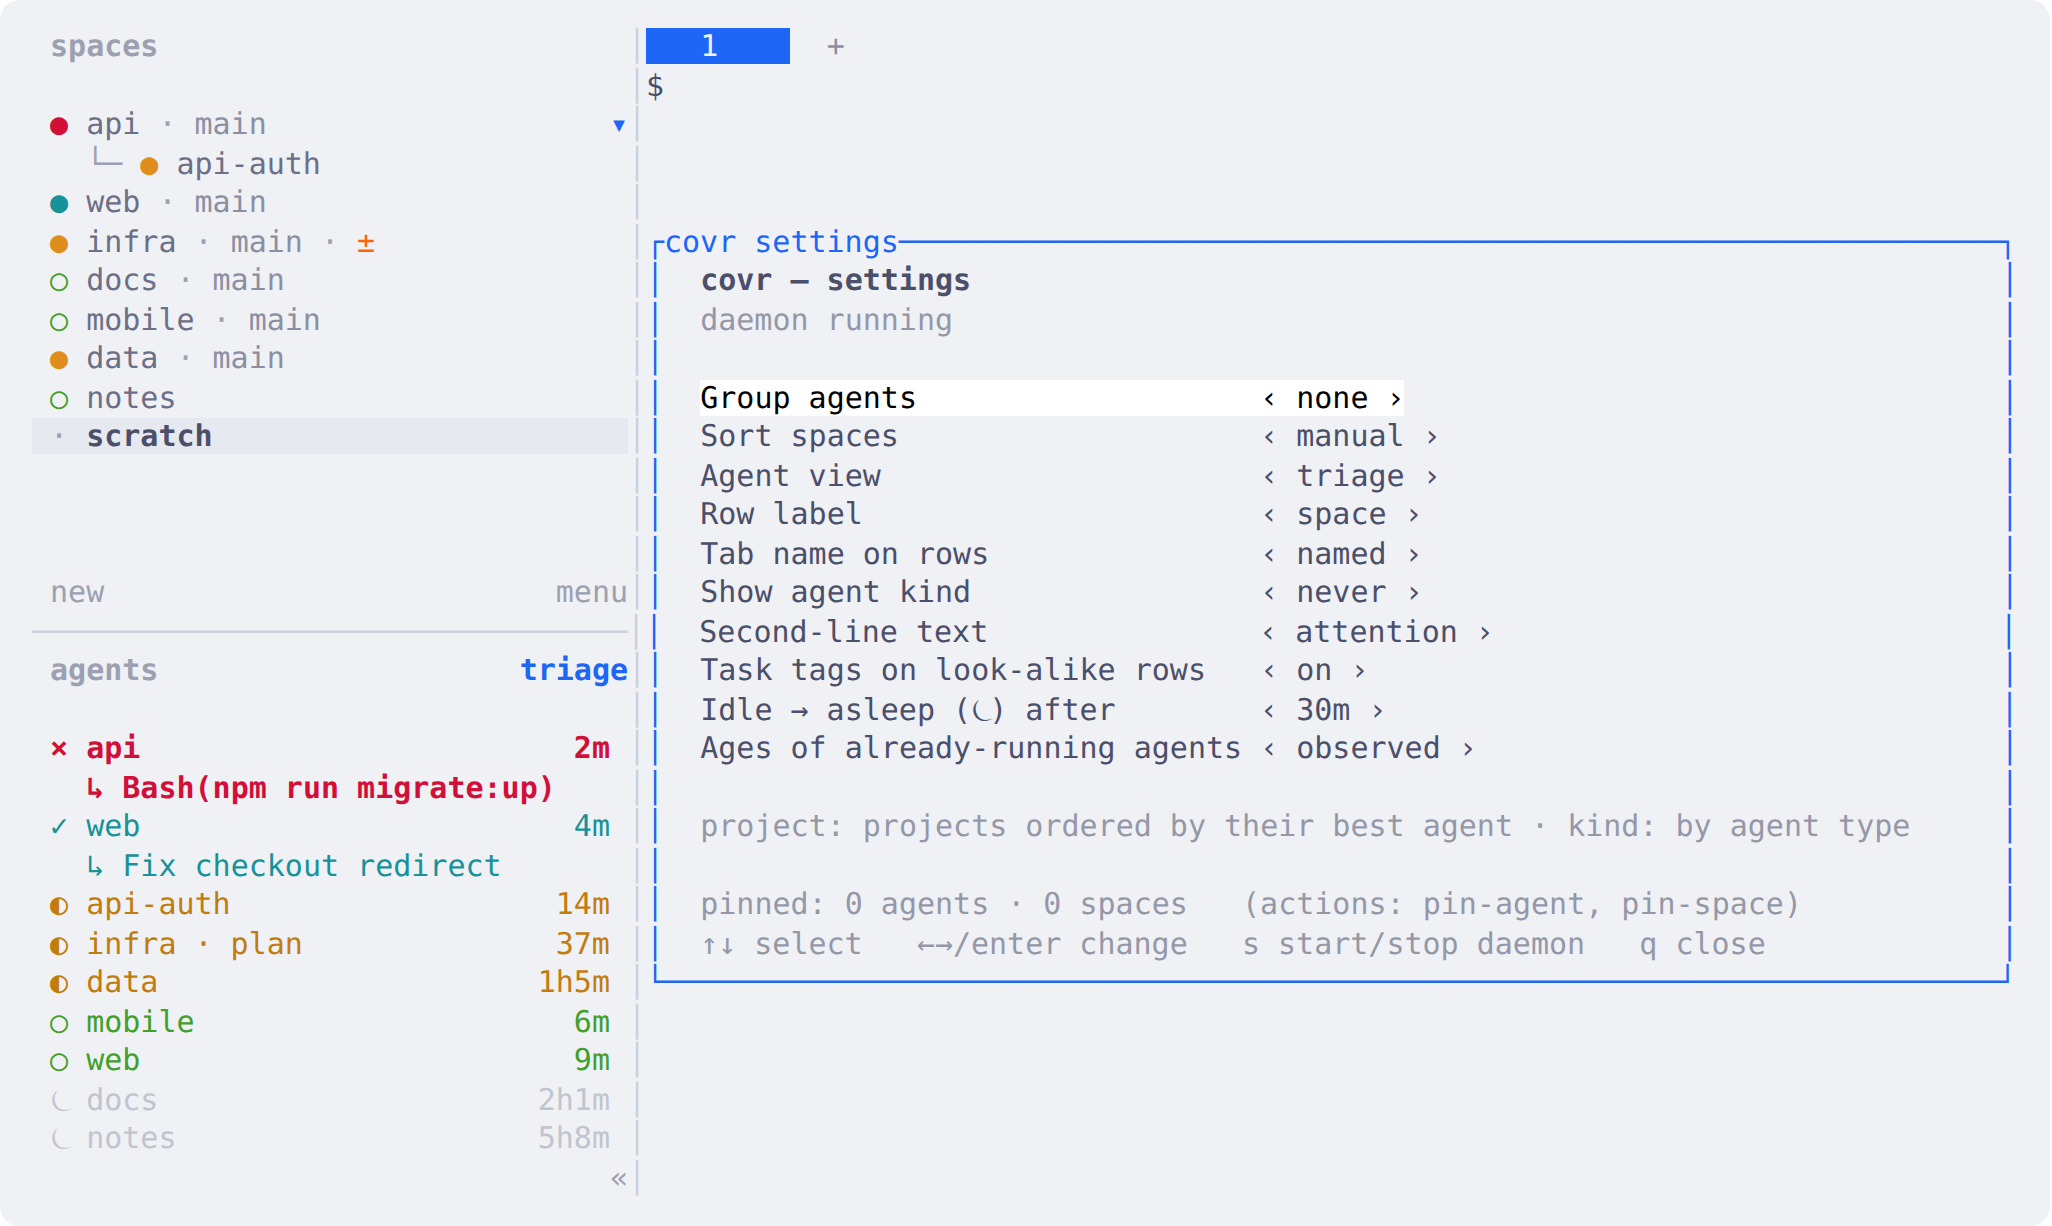
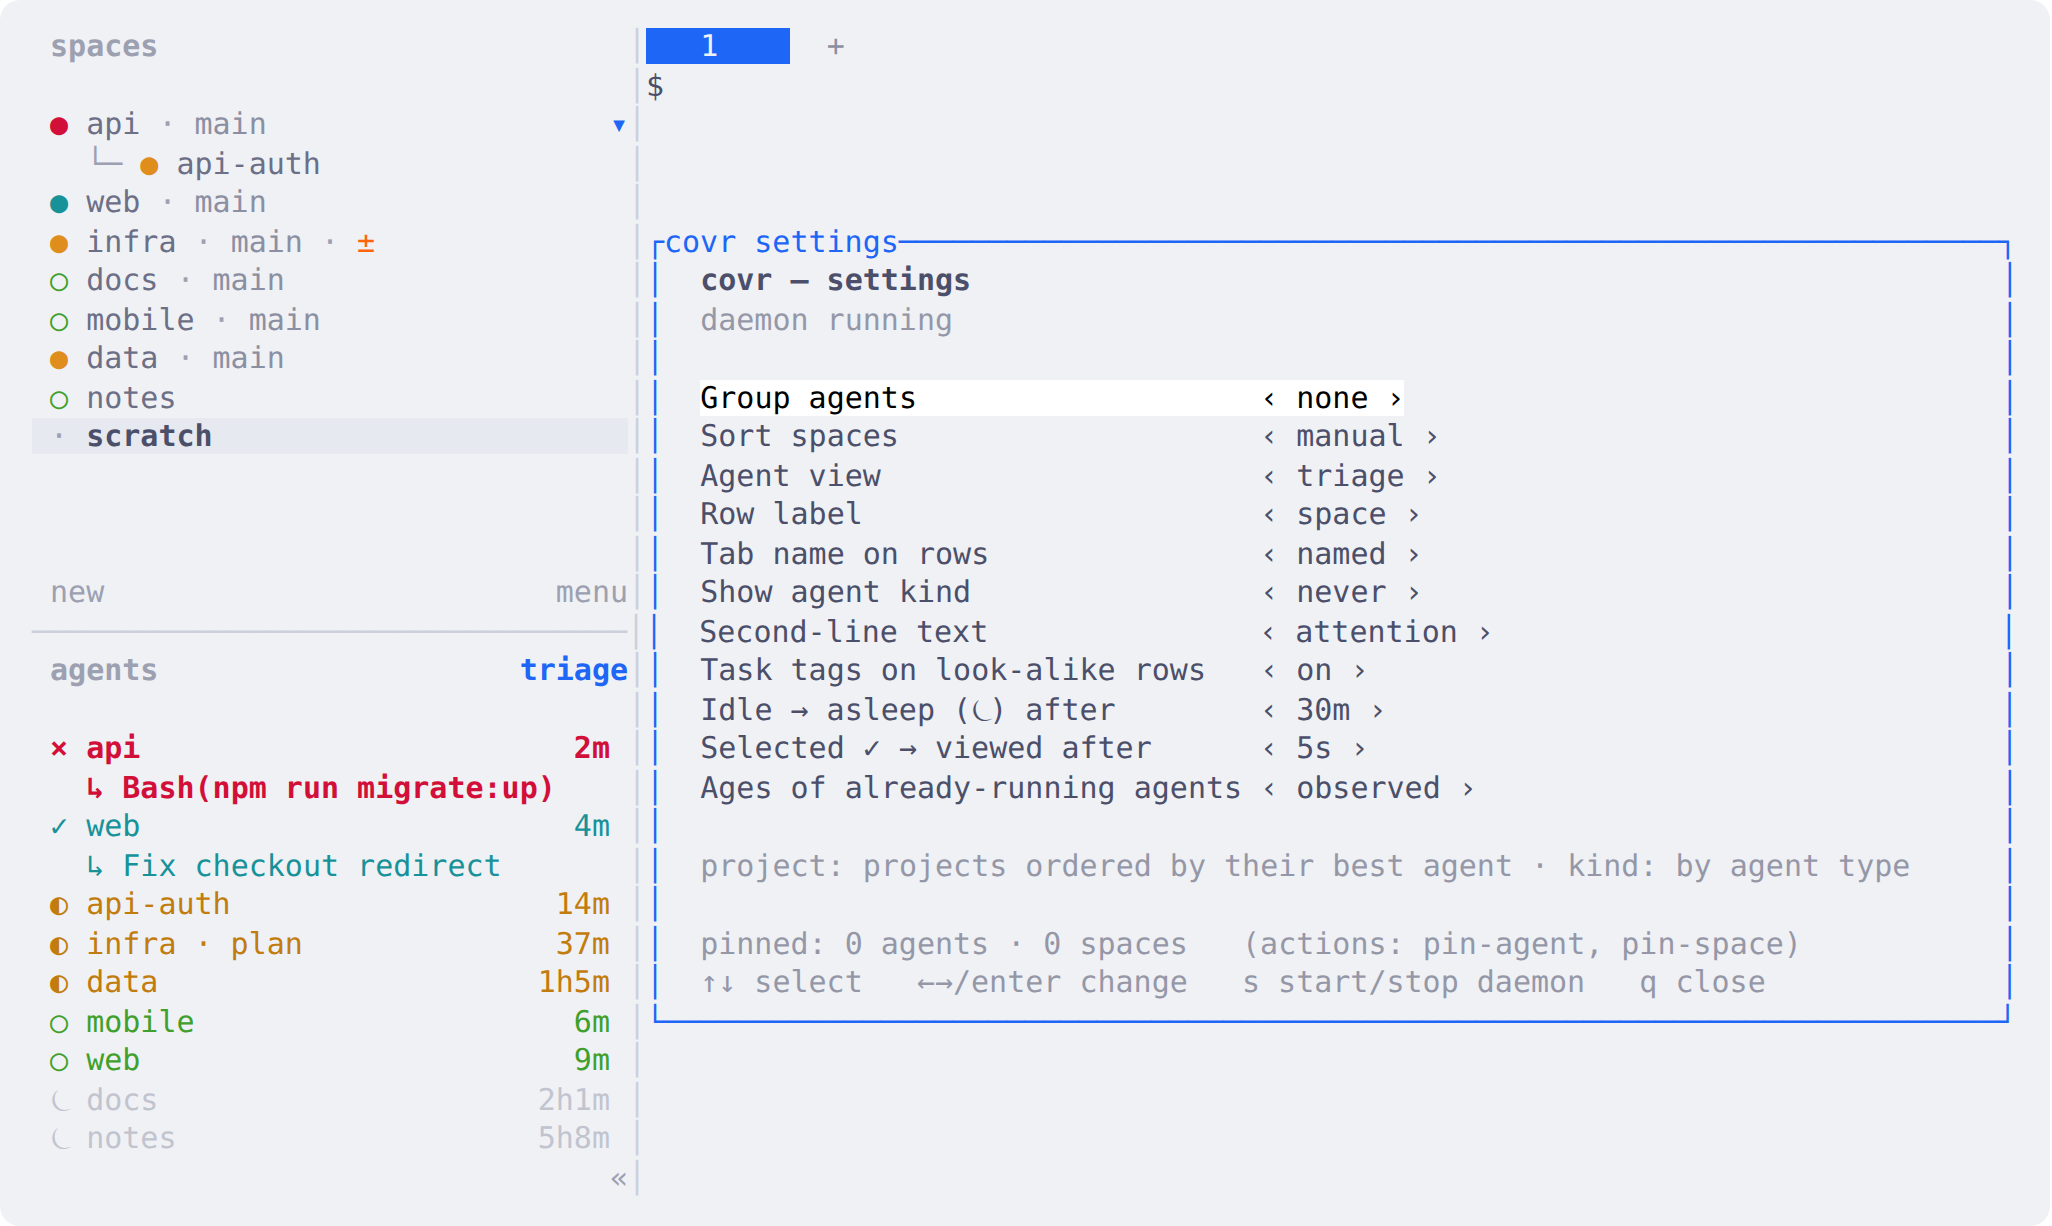
0.4.1: selected finished agents become viewed; idle counts from the view
- seen_after (default 5s, `off` to disable): herdr's server marks a
  finished agent viewed only on an explicit focus, so one that finishes
  while it is already the selected pane (terminal in the background) could
  stay ✓ until you clicked away and back. covr now focuses it where it is
  after seen_after, which marks it viewed and moves nothing. The daemon
  wakes at the due time instead of waiting for its next tick.
- The timer restarts when a finished agent is viewed, however that
  happened. herdr doesn't count done -> idle as a state change, so the
  idle age and the stale_after countdown used to run from the finish; they
  now run from the view.
- Settings popup: the new option (one more row).
- Tests: 6 unit tests and a `viewed` e2e scenario that reproduces the
  stuck ✓ on herdr 0.9.1; the popup test polls instead of sleeping.

Changed region(s): [[0.3119, 0.5889, 0.9357, 0.8369]]

diff --git a/bin/covrd.py b/bin/covrd.py
@@ -62,7 +62,7 @@ MIN_GAP = 0.5         # seconds between recomputes when hooks fire in bursts (pa
 FIGHT_MOVES, FIGHT_WINDOW, FIGHT_PAUSE = 3, 60, 300  # re-applying one order 3x in 60 s pauses space sorting 5 min
 ZW = ""
 
-DEFAULTS = {"layout": "auto", "age_source": "observed", "label": "space", "show_kind": "never", "group_by": "none", "show_task": "attention",
+DEFAULTS = {"layout": "auto", "age_source": "observed", "seen_after": "5s", "label": "space", "show_kind": "never", "group_by": "none", "show_task": "attention",
             "disambiguate": True, "stale_after": "30m", "view": "triage", "space_sort": "manual", "show_tab": "named", "tick_seconds": 5}
 CYCLES = {"view": ["triage", "needs me", "here+"], "group_by": ["none", "project", "kind"],
           "show_kind": ["never", "auto", "always"], "label": ["space", "task"],
@@ -249,6 +249,11 @@ def validate(key, value):
         if v in ("0", "false", "no", "off"):
             return False, None
         return None, f"{key} must be true or false"
+    if key == "seen_after":
+        v = str(value).strip().lower()
+        if v == "off" or (DURATION.fullmatch(v) and 1 <= seconds(v) <= 3600):
+            return v, None
+        return None, "seen_after must be off or a duration between 1s and 1h, like 5s or 1m"
     if key == "stale_after":
         m = DURATION.fullmatch(str(value).strip())
         if not m or not 60 <= seconds(value) <= 30 * 86400:
@@ -516,6 +521,26 @@ def transcript_mtime(cwd, title, cache):
     return best
 
 
+def mark_seen(pane_id, opt, memo, now):
+    """A finished agent stays "done" until herdr's server sees an explicit focus on it. When it is already
+    the selected pane (e.g. it finished while the terminal window was in the background), nothing ever
+    focuses it again, so the ✓ would stay. After `seen_after` we focus it where it is, which marks it viewed
+    and moves nothing. Returns True once it has been marked."""
+    if str(opt["seen_after"]).lower() == "off":
+        return False
+    due = memo.setdefault("seen_due", {}).setdefault(pane_id, now + seconds(opt["seen_after"]))
+    if now < due:
+        return False
+    try:
+        call("agent.focus", {"target": pane_id})
+    except Exception as e:
+        log("mark seen failed", pane_id, repr(e))
+        memo["seen_due"][pane_id] = now + max(5, seconds(opt["seen_after"]))  # try again later, never spin
+        return False
+    memo["seen_due"].pop(pane_id, None)
+    return True
+
+
 def wait_reason(pane_id):
     try:
         txt = call("pane.read", {"pane_id": pane_id, "source": "visible", "lines": 40}).get("read", {}).get("text", "")
@@ -556,6 +581,8 @@ def compute(opt, memo):
         pid = a["pane_id"]
         st = a["agent_status"] if a["agent_status"] in PRIO else "unknown"
         seq = a.get("state_change_seq", 0)
+        if st == "done" and a.get("focused") and mark_seen(pid, opt, memo, now):
+            st = "idle"  # the agent you have selected has been finished long enough: it counts as viewed
         rec = seen.get(pid)
         if not rec or rec["seq"] != seq:
             first = rec is None
@@ -564,7 +591,12 @@ def compute(opt, memo):
                 start = None
                 if opt["age_source"] == "claude-transcripts":  # ... unless the user lets us look it up (opt-in)
                     start = transcript_mtime(a.get("cwd"), a.get("terminal_title_stripped"), tcache) or None
-            rec = seen[pid] = {"seq": seq, "since": start}
+            rec = seen[pid] = {"seq": seq, "since": start, "st": st}
+        elif rec.get("st") not in (None, st):
+            # the visible state changed without herdr counting a state change: a finished agent was viewed
+            # (done -> idle). The timer restarts, so "idle" and "asleep" count from when you viewed it.
+            rec["since"] = now
+        rec["st"] = st
         age = None if rec["since"] is None else max(0, int(now - rec["since"]))
         stale = st == "idle" and age is not None and age >= stale_after
         ws = spaces.get(a["workspace_id"], {})
@@ -575,6 +607,11 @@ def compute(opt, memo):
     for pid in list(seen):
         if pid not in {r["pid"] for r in rows}:
             seen.pop(pid)
+    pending = memo.setdefault("seen_due", {})
+    for pid in list(pending):  # only agents that are still finished and still selected stay due
+        if str(opt["seen_after"]).lower() == "off" or not any(a["pane_id"] == pid and a.get("agent_status") == "done" and a.get("focused") for a in agents):
+            pending.pop(pid)
+    memo["wake_at"] = min(pending.values()) if pending else None
     live_keys = {tkey(a.get("cwd"), a.get("terminal_title_stripped")) for a in agents}
     for k in list(tcache):
         if k not in live_keys:
@@ -1036,6 +1073,8 @@ def run():
                         return
                 if woke["flag"] and time.time() - last_tick >= MIN_GAP:
                     break  # a hook woke us; bursts (focus changes) coalesce into one recompute
+                if memo.get("wake_at") and time.time() >= memo["wake_at"]:
+                    break  # a selected, finished agent is due to be marked viewed
                 time.sleep(0.1)
             woke["flag"] = False
     finally:

diff --git a/tests/unit/test_covrd.py b/tests/unit/test_covrd.py
@@ -228,6 +228,101 @@ class Ordering(Base):
         self.assertNotIn("pin", out["p2"])
 
 
+class Viewed(Base):
+    """A finished agent (✓) becoming viewed (○): the timer restarts, and the selected one is viewed automatically."""
+
+    def setUp(self):
+        super().setUp()
+        self.clock = FakeClock()
+        self._time, covrd.time = covrd.time, self.clock
+
+    def tearDown(self):
+        covrd.time = self._time
+        super().tearDown()
+
+    def herdr(self, focused):
+        a = agent("p1", "w1", "working", seq=4)
+        a["focused"] = focused
+        return FakeHerdr([a], [space("w1", "api", 1)])
+
+    def finish(self, h, memo, opt=None):
+        self.run_compute(h, opt=opt, memo=memo)                  # seen while working
+        h.agents[0].update(agent_status="done", state_change_seq=5)
+        return self.run_compute(h, opt=opt, memo=memo)[0]
+
+    def test_timer_restarts_when_a_finished_agent_is_viewed(self):
+        h, memo = self.herdr(focused=False), {}
+        self.assertTrue(self.finish(h, memo)["p1"]["head"].startswith("✓ api"))
+        self.clock.now += 600                                     # ten minutes later you look at it:
+        h.agents[0]["agent_status"] = "idle"                      # herdr reports idle, same state_change_seq
+        out, *_ = self.run_compute(h, memo=memo)
+        self.assertTrue(out["p1"]["head"].startswith("○ api"))
+        self.assertTrue(out["p1"]["head"].endswith(" <1m"))       # idle counts from the view, not from the finish
+        self.clock.now += 1900                                    # ... and so does asleep (30m)
+        out, *_ = self.run_compute(h, memo=memo)
+        self.assertTrue(out["p1"]["head"].startswith("⏾ api"))
+
+    def test_selected_finished_agent_is_marked_viewed_after_seen_after(self):
+        h, memo = self.herdr(focused=True), {}
+        out = self.finish(h, memo)
+        self.assertTrue(out["p1"]["head"].startswith("✓ api"))
+        self.assertNotIn("agent.focus", [m for m, _ in h.calls])  # not before 5 s
+        self.assertAlmostEqual(memo["wake_at"], self.clock.now + 5)
+        self.clock.now += 5
+        out, *_ = self.run_compute(h, memo=memo)
+        self.assertIn(("agent.focus", {"target": "p1"}), h.calls)
+        self.assertTrue(out["p1"]["head"].startswith("○ api"))    # shown as viewed at once
+        self.assertTrue(out["p1"]["head"].endswith(" <1m"))
+        self.assertIsNone(memo["wake_at"])
+
+    def test_unselected_finished_agents_are_never_marked(self):
+        h, memo = self.herdr(focused=False), {}
+        self.finish(h, memo)
+        self.clock.now += 60
+        out, *_ = self.run_compute(h, memo=memo)
+        self.assertNotIn("agent.focus", [m for m, _ in h.calls])
+        self.assertTrue(out["p1"]["head"].startswith("✓ api"))
+
+    def test_seen_after_off_and_no_busy_wake(self):
+        h, memo = self.herdr(focused=True), {}
+        self.finish(h, memo, opt=opts(seen_after="off"))
+        self.clock.now += 60
+        self.run_compute(h, opt=opts(seen_after="off"), memo=memo)
+        self.assertNotIn("agent.focus", [m for m, _ in h.calls])
+        self.assertIsNone(memo["wake_at"])
+        # switching it off while one is pending must clear the wake-up, or the daemon would spin
+        memo2 = {}
+        self.finish(self.herdr(focused=True), memo2)
+        h2 = self.herdr(focused=True); h2.agents[0].update(agent_status="done", state_change_seq=5)
+        self.run_compute(h2, opt=opts(seen_after="off"), memo=memo2)
+        self.assertIsNone(memo2["wake_at"])
+
+    def test_failed_focus_is_retried_later_not_immediately(self):
+        h, memo = self.herdr(focused=True), {}
+        self.finish(h, memo)
+        self.clock.now += 5
+        real = h.__call__
+
+        def failing(method, params=None):
+            if method == "agent.focus":
+                raise RuntimeError("boom")
+            return FakeHerdr.__call__(h, method, params)
+        covrd.call = failing
+        memo.setdefault("dirty_at", 1e18)
+        saved_log, covrd.log = covrd.log, lambda *a: None
+        try:
+            covrd.compute(opts(), memo)
+        finally:
+            covrd.log = saved_log
+        self.assertGreater(memo["wake_at"], self.clock.now)       # pushed into the future
+
+    def test_seen_after_values(self):
+        for v in ("off", "5s", "90", "1m", "1h"):
+            self.assertIsNone(covrd.validate("seen_after", v)[1], v)
+        for v in ("soon", "0s", "2h", ""):
+            self.assertIsNotNone(covrd.validate("seen_after", v)[1], v)
+
+
 class Identity(Base):
     def test_regression_tab_names_show_on_every_row(self):
         h = FakeHerdr([agent("p1", "w1", "idle", tab="w1:t1"), agent("p2", "w1", "working", seq=2, tab="w1:t2")],

diff --git a/bin/settings.py b/bin/settings.py
@@ -20,6 +20,7 @@ ITEMS = [
     ("show_task", "Second-line text", ["attention", "all", "never"]),
     ("disambiguate", "Task tags on look-alike rows", [True, False]),
     ("stale_after", "Idle → asleep (⏾) after", ["15m", "30m", "1h", "2h", "4h"]),
+    ("seen_after", "Selected ✓ → viewed after", ["off", "5s", "15s", "1m"]),
     ("age_source", "Ages of already-running agents", ["observed", "claude-transcripts"]),
 ]
 HELP = {
@@ -32,6 +33,7 @@ HELP = {
     "show_task": "attention = blocked reason + what finished",
     "disambiguate": "adds 1–2 words of the task when two rows would look identical",
     "stale_after": "idle longer than this dims to ⏾ and sinks",
+    "seen_after": "a finished agent you already have selected turns from ✓ to ○ after this long",
     "age_source": "observed = no age until a state changes · claude-transcripts = look it up in ~/.claude*",
 }
 FOOTER = "↑↓ select   ←→/enter change   s start/stop daemon   q close"

diff --git a/docs/spec.md b/docs/spec.md
@@ -43,6 +43,8 @@ This is how covr (plugin id `covr.sidebar`, version 0.3) draws herdr's sidebar a
 The agents list uses one herdr Agent view.
 - **Sort:** pinned first, then attention (blocked > finished > working > idle), then the most recent state change.
 - **Stable ranking:** an agent's rank is set by the moment it entered its current state, so rows move only when a state changes, never as ages tick.
+- **Viewed restarts the timer:** herdr reports a finished agent as `done` until it is viewed, then as `idle`, without counting that as a state change. covr restarts the agent's timer at that moment, however it was viewed, so the idle age and the `stale_after` countdown run from the view, not from the finish.
+- **Selected and finished:** herdr's server marks an agent viewed only on an explicit focus. An agent that finishes while it is already the selected pane (for example with the terminal in the background) can therefore stay `done`. After `seen_after` (default 5 s), covr focuses it where it is, which marks it viewed and moves nothing. The daemon wakes at the due time, not at its next tick.
 - **Age source:** the age is time in the current state, as the daemon observes it; it remembers start times across restarts. An agent already in its state when the daemon first sees it has no age until its state changes. With `age_source = claude-transcripts` (opt-in), that start time is taken from the newest Claude Code transcript that mentions the session title.
 
 ### Grouping
@@ -111,6 +113,7 @@ Options are stored in `$(herdr plugin config-dir covr.sidebar)/config.toml`. The
 | `show_task` | `attention` (blocked reason and finished task) · `all` · `never` |
 | `disambiguate` | `true` · `false` |
 | `stale_after` | `30m`; any duration from `1m` to `30d` |
+| `seen_after` | `5s`; `off`, or any duration from `1s` to `1h` |
 | `tick_seconds` | `5`; from 2 to 60 |
 | `layout` | `auto` · `light` · `dark` (used by `install-layout`) |
 | `age_source` | `observed` · `claude-transcripts` (opt-in: reads transcript files under `~/.claude*/projects`) |

diff --git a/README.md b/README.md
@@ -20,14 +20,15 @@ Both screenshots show the same session, captured headless from the test sandbox 
 | glyph | state | second line |
 |:-:|---|---|
 | `×` | blocked, waiting for you | what it is asking, taken from the screen |
-| `✓` | finished, not looked at yet | the task it finished |
+| `✓` | finished, not viewed yet | the task it finished |
 | `◐` | working | — |
-| `○` | idle | — |
+| `○` | idle (viewed) | — |
 | `⏾` | asleep: idle for longer than `stale_after` (30 min), dimmed | — |
 
 - **Order:** blocked, then finished, then working, then idle. Within a state, the most recent change comes first.
 - **Stable positions:** rows move only when an agent's state changes, never because an age ticked over.
-- **Age:** time in the current state, on the right.
+- **Age:** time in the current state, on the right. For an idle agent that means time since you viewed it, so the 30 minutes to asleep also start then.
+- **Selected agent:** a finished agent you already have selected turns from `✓` to `○` by itself after 5 s (`seen_after`; set it to `off` to keep herdr's behaviour). Without this, an agent that finishes while your terminal is in the background can stay `✓` until you click away and back.
 - **Label:** the space name, plus the tab name if you renamed the tab (`infra · plan`). When two rows would look the same, both get a word or two of their task.
 - **Spaces:** keep herdr's own rows, plus `±` for uncommitted changes, `!N` on a repo whose worktrees hold N blocked agents, and `★` for a pinned space.
 
